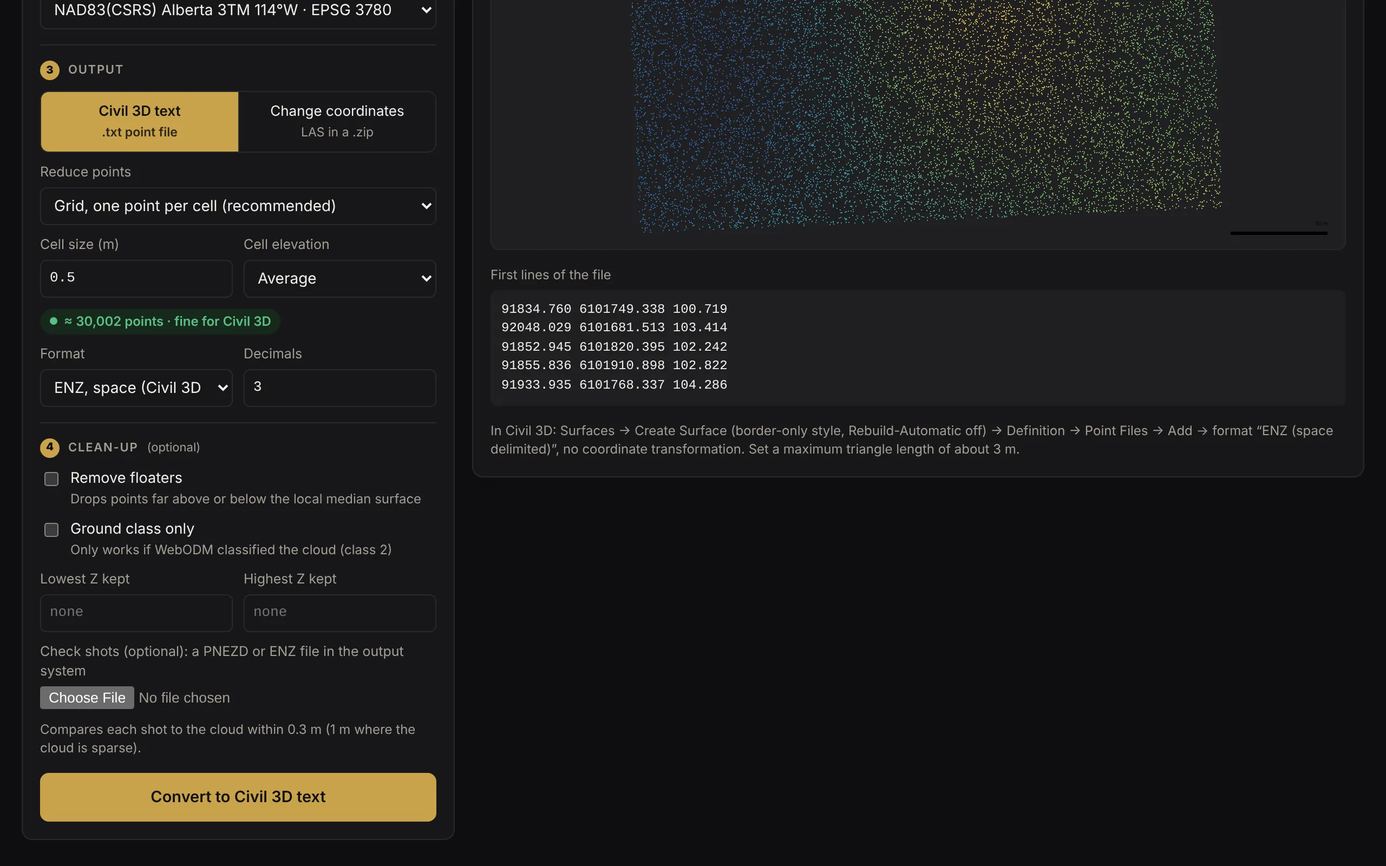
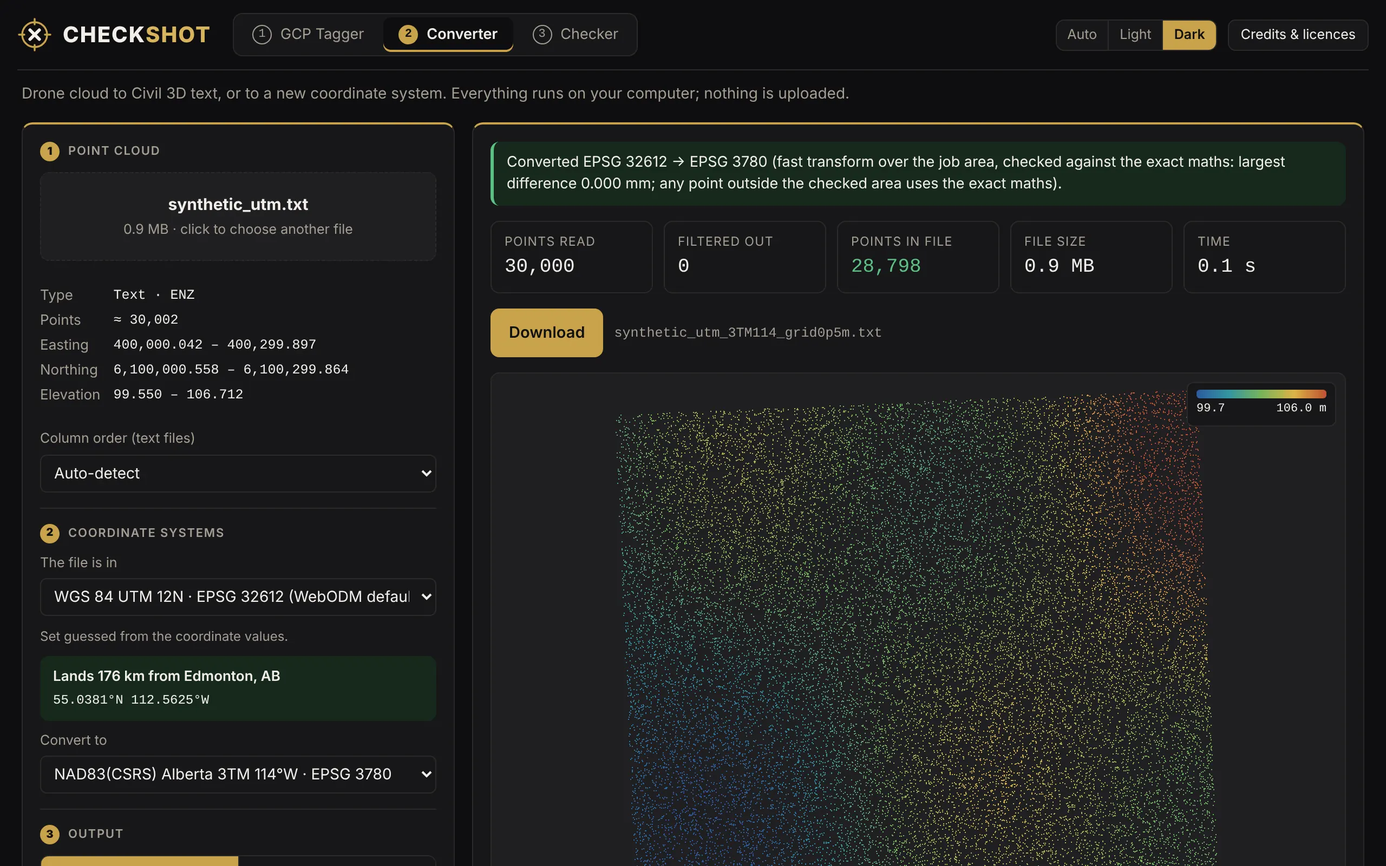
Legal pages from the final text, larger app screenshots, checks script, fixes from two review rounds
Claude-Session: https://claude.ai/code/session_0119f7EvM8GAWJpWpNf9qqMi

diff --git a/index.html b/index.html
@@ -4,12 +4,12 @@
 <meta charset="utf-8">
 <meta name="viewport" content="width=device-width, initial-scale=1">
 <title>Checkshot: check a drone survey against your stick shots</title>
-<meta name="description" content="Windows app for drone-survey checking in land development. Tag ground control, convert point clouds between 5,860 coordinate systems, and grade the cloud against stick shots. Runs offline. Free beta until March 31, 2027.">
+<meta name="description" content="Windows app for checking drone surveys. Tag ground control, convert point clouds between 5,860 coordinate systems, and grade the cloud against your stick shots. Runs offline. Free beta until March 31, 2027.">
 <link rel="canonical" href="https://checkshot.ca/">
 <meta property="og:type" content="website">
 <meta property="og:site_name" content="Checkshot">
 <meta property="og:title" content="Checkshot: check a drone survey against your stick shots">
-<meta property="og:description" content="Windows app for drone-survey checking in land development. Tag ground control, convert point clouds between 5,860 coordinate systems, and grade the cloud against stick shots. Runs offline. Free beta until March 31, 2027.">
+<meta property="og:description" content="Windows app for checking drone surveys. Tag ground control, convert point clouds between 5,860 coordinate systems, and grade the cloud against your stick shots. Runs offline. Free beta until March 31, 2027.">
 <meta property="og:url" content="https://checkshot.ca/">
 <meta property="og:image" content="https://checkshot.ca/assets/img/og.png">
 <meta property="og:image:width" content="1200">
@@ -105,16 +105,8 @@
     </div>
     <div>
       <article class="step">
-        <div>
           <h3><span class="n">1</span> Tag the control</h3>
           <p>Load the GCP shots from your data collector and the photos from the flight. Click the centre of a target in one photo. The Tagger looks for that target in the other photos and puts what it finds at the front of the list for you to accept or reject.</p>
-          <ul>
-            <li>Writes <code>gcp_list.txt</code> for OpenDroneMap and WebODM, or a survey XML for Autodesk ReCap.</li>
-            <li>Notices when your firm's grid is shifted from the true projection, tells you by how much, and remembers it.</li>
-            <li>A point with no elevation in the file is left out of the export and named. Nothing is written with Z = 0.</li>
-            <li>Tick any shot as a check point and it is kept out of the control.</li>
-          </ul>
-        </div>
         <figure class="shot">
   <a href="assets/shots/tagger-dark.webp" aria-label="Open the screenshot full size">
     <img class="dark" src="assets/shots/tagger-dark.webp" width="2560" height="1600" loading="lazy" decoding="async" alt="The GCP Tagger with seven made-up control points loaded: a site map on the left, the control list under it, and the three steps to tag a target on the right.">
@@ -122,19 +114,16 @@
   </a>
   <figcaption>GCP Tagger with made-up control loaded, before the photos are added.</figcaption>
 </figure>
+          <ul>
+            <li>Writes <code>gcp_list.txt</code> for OpenDroneMap and WebODM, or a survey XML for Autodesk ReCap.</li>
+            <li>Notices when your firm's grid is shifted from the true projection, tells you by how much, and remembers it.</li>
+            <li>A point with no elevation in the file is left out of the export and named. Nothing is written with Z = 0.</li>
+            <li>Tick any shot as a check point and it is kept out of the control.</li>
+          </ul>
       </article>
       <article class="step">
-        <div>
           <h3><span class="n">2</span> Convert the cloud</h3>
           <p>Take a LAS, LAZ or text point cloud from the system your processing software wrote it in to the one your drawings are in. The Converter guesses the source system from the numbers, says that it is a guess, and tells you in words where the cloud lands before anything runs.</p>
-          <ul>
-            <li>5,860 EPSG projected systems, including Alberta 3TM and UTM.</li>
-            <li>NAD27 through Natural Resources Canada's NTv2 grid, inside Canada. Outside the grid it stops with a message.</li>
-            <li>US survey feet and international feet. X, Y and Z all come out in feet.</li>
-            <li>Out: a point file thinned on a grid for Civil 3D, or a LAS with the new coordinates.</li>
-            <li>Says plainly when a step changes geometry, and by how much.</li>
-          </ul>
-        </div>
         <figure class="shot">
   <a href="assets/shots/converter-dark.webp" aria-label="Open the screenshot full size">
     <img class="dark" src="assets/shots/converter-dark.webp" width="2560" height="1600" loading="lazy" decoding="async" alt="The Converter after converting a made-up UTM point cloud to Alberta 3TM: a message stating the transform used and its largest difference from the exact maths, point counts, a download button and a plot of the cloud.">
@@ -142,11 +131,24 @@
   </a>
   <figcaption>Converter result on a made-up cloud. The green line says which transform was used and how far it is from the exact maths.</figcaption>
 </figure>
+          <ul>
+            <li>5,860 EPSG projected systems, including Alberta 3TM and UTM.</li>
+            <li>NAD27 through Natural Resources Canada's NTv2 grid, inside Canada. Outside the grid it stops with a message.</li>
+            <li>US survey feet and international feet. X, Y and Z all come out in feet.</li>
+            <li>Out: a point file thinned on a grid for Civil 3D, or a LAS with the new coordinates.</li>
+            <li>Says plainly when a step changes geometry, and by how much.</li>
+          </ul>
       </article>
       <article class="step">
-        <div>
           <h3><span class="n">3</span> Check it</h3>
           <p>Load the cloud and your stick shots and set a tolerance. The Checker fits a plane to the cloud points around each shot, so slopes do not bias the height, and gives you the difference at every one.</p>
+        <figure class="shot">
+  <a href="assets/shots/checker-dark.webp" aria-label="Open the screenshot full size">
+    <img class="dark" src="assets/shots/checker-dark.webp" width="2560" height="1600" loading="lazy" decoding="async" alt="The Checker after grading a made-up cloud against 24 made-up shots: a Pass line with the RMSE, tiles for mean, RMSE, standard deviation, 95 percent and worst shot, doming and tilt tests, and a map of the shots.">
+    <img class="light" src="assets/shots/checker-light.webp" width="2560" height="1600" loading="lazy" decoding="async" alt="The Checker after grading a made-up cloud against 24 made-up shots: a Pass line with the RMSE, tiles for mean, RMSE, standard deviation, 95 percent and worst shot, doming and tilt tests, and a map of the shots.">
+  </a>
+  <figcaption>Checker result on made-up data: verdict, statistics, bend tests and a map of the shots.</figcaption>
+</figure>
           <ul>
             <li>Mean, RMSE, standard deviation, the 95% figure (1.96 &times; RMSE), worst shot and share inside tolerance.</li>
             <li>Tests for doming and tilt. With enough shots on slopes, a horizontal shift too.</li>
@@ -157,20 +159,12 @@
             <p>Independent shots only. Never the shots you tagged as GCPs: the model was fitted to those, so they always look good and prove nothing.</p>
             <footer>From the Checker's own screen</footer>
           </blockquote>
-        </div>
-        <figure class="shot">
-  <a href="assets/shots/checker-dark.webp" aria-label="Open the screenshot full size">
-    <img class="dark" src="assets/shots/checker-dark.webp" width="2560" height="1600" loading="lazy" decoding="async" alt="The Checker after grading a made-up cloud against 24 made-up shots: a Pass line with the RMSE, tiles for mean, RMSE, standard deviation, 95 percent and worst shot, doming and tilt tests, and a map of the shots.">
-    <img class="light" src="assets/shots/checker-light.webp" width="2560" height="1600" loading="lazy" decoding="async" alt="The Checker after grading a made-up cloud against 24 made-up shots: a Pass line with the RMSE, tiles for mean, RMSE, standard deviation, 95 percent and worst shot, doming and tilt tests, and a map of the shots.">
-  </a>
-  <figcaption>Checker result on made-up data: verdict, statistics, bend tests and a map of the shots.</figcaption>
-</figure>
       </article>
     </div>
   </div>
 </section>
 
-<section class="band" id="rules" aria-labelledby="h-rules">
+<section class="band tinted" id="rules" aria-labelledby="h-rules">
   <div class="wrap">
     <div class="band-title">
       <h2 id="h-rules">Ground rules</h2>

diff --git a/assets/css/site.css b/assets/css/site.css
@@ -73,7 +73,7 @@ code { background: var(--panel); border: 1px solid var(--line); border-radius: 3
 
 /* survey illustration */
 .survey { margin-top: clamp(22px, 3.5vw, 40px); border-top: 1px solid var(--line); border-bottom: 1px solid var(--line); background: var(--sv-bg); position: relative; }
-.sv-stage { position: relative; height: clamp(400px, 66vh, 680px); overflow: hidden; }
+.sv-stage { position: relative; height: clamp(410px, calc(100vh - 440px), 680px); overflow: hidden; }
 .sv-stage canvas { position: absolute; inset: 0; width: 100%; height: 100%; display: block; opacity: 0; touch-action: pan-y; cursor: grab; }
 .survey.is-dragging canvas { cursor: grabbing; }
 .survey.is-live canvas { opacity: 1; }
@@ -85,6 +85,9 @@ code { background: var(--panel); border: 1px solid var(--line); border-radius: 3
 .survey:not(.is-live) .sv-labels { display: none; }
 .sv-label { position: absolute; left: 0; top: 0; pointer-events: auto; cursor: pointer; margin: -26px 0 0 4px; padding: 2px 7px; min-height: 24px;
   font: 400 0.8rem/1.4 var(--mono); font-variant-numeric: tabular-nums; white-space: nowrap; color: var(--ink); background: var(--bg); border: 1px solid currentColor; border-radius: 3px; }
+.sv-label { z-index: 2; }
+.sv-label.is-dot { z-index: 1; }
+.sv-label[aria-pressed="true"] { z-index: 3; }
 .sv-label i { display: none; }
 .sv-label.is-ok { color: var(--ok); } .sv-label.is-near { color: var(--near); } .sv-label.is-bad, .sv-label.is-out { color: var(--bad); }
 .sv-label.is-out span { text-decoration: line-through; }
@@ -125,6 +128,10 @@ details.sv-data table { margin-top: 8px; }
 .band:last-of-type { padding-bottom: clamp(56px, 8vw, 104px); }
 .band > .wrap { display: grid; grid-template-columns: minmax(0, 3fr) minmax(0, 9fr); gap: 20px clamp(24px, 4vw, 56px); border-top: 1px solid var(--line-strong); padding-top: 22px; }
 .band > .wrap > * { min-width: 0; }
+.band.tinted { background: var(--panel); margin-top: clamp(56px, 8vw, 104px); padding: 0 0 clamp(40px, 6vw, 64px); border-top: 1px solid var(--line-strong); border-bottom: 1px solid var(--line); }
+.band.tinted > .wrap { border-top: 0; padding-top: clamp(36px, 5vw, 56px); }
+.band.tinted + .band { padding-top: clamp(40px, 6vw, 64px); }
+.band.tinted + .band > .wrap { border-top: 0; }
 .band-title p { color: var(--muted); margin-top: 12px; font-size: 0.98rem; max-width: 22em; }
 .prose { max-width: 42em; }
 .prose h2 { margin: 1.6em 0 0.5em; font-size: clamp(1.7rem, 3vw, 2.2rem); }
@@ -134,14 +141,16 @@ details.sv-data table { margin-top: 8px; }
 .prose ol.alpha { list-style: none; padding-left: 1.2em; }
 
 /* workflow */
-.step { display: grid; grid-template-columns: minmax(0, 5fr) minmax(0, 7fr); gap: 20px clamp(20px, 3vw, 40px); padding: 0 0 clamp(40px, 6vw, 72px); align-items: start; }
+.step { padding: 0 0 clamp(40px, 6vw, 72px); }
 .step + .step { border-top: 1px solid var(--line); padding-top: clamp(28px, 4vw, 44px); }
 .step:last-child { padding-bottom: 0; }
-.step h3 { display: flex; gap: 0.45em; align-items: baseline; margin-bottom: 0.5em; }
+.step h3 { display: flex; gap: 0.45em; align-items: baseline; margin-bottom: 0.5em; font-size: clamp(1.9rem, 3.2vw, 2.6rem); }
 .step h3 .n { color: var(--gold-text); font-family: var(--display); }
-.step ul { list-style: none; margin: 0; padding: 0; font-size: 0.98rem; }
-.step li { padding: 9px 0; border-top: 1px solid var(--line); }
-.shot { margin: 0; }
+.step > p { max-width: 40em; }
+.step ul { list-style: none; margin: 18px 0 0; padding: 0; font-size: 0.98rem; columns: 2; column-gap: clamp(24px, 4vw, 48px); }
+.step li { padding: 9px 0; border-top: 1px solid var(--line); break-inside: avoid; }
+.step blockquote { max-width: 40em; }
+.shot { margin: 22px 0 0; }
 .shot a { display: block; border: 1px solid var(--line-strong); border-radius: 4px; overflow: hidden; background: var(--panel); }
 .shot img.light, :root[data-theme="light"] .shot img.dark { display: none; }
 :root[data-theme="light"] .shot img.light { display: block; }
@@ -184,6 +193,7 @@ td.num, table.nums td { font-family: var(--mono); font-variant-numeric: tabular-
 .page-body > .wrap { border-top: 1px solid var(--line-strong); padding-top: 26px; }
 .dl-grid { display: grid; grid-template-columns: minmax(0, 5fr) minmax(0, 7fr); gap: 28px clamp(24px, 5vw, 72px); }
 .dl-box { border: 1px solid var(--gold); border-radius: 4px; padding: clamp(18px, 3vw, 28px); align-self: start; }
+.dl-box h2 { font-size: 1.9rem; }
 .dl-box .btn { display: block; text-align: center; margin: 14px 0; }
 .dl-box p { font-size: 0.95rem; }
 .dl-box p:last-child { margin-bottom: 0; }
@@ -211,7 +221,7 @@ ol.steps li::marker { font-family: var(--display); font-weight: 700; color: var(
 .fine { color: var(--muted); font-size: 0.82rem; margin: 16px 0 0; max-width: 70em; }
 
 @media (max-width: 860px) {
-  .hero-side, .band > .wrap, .step, .dl-grid { grid-template-columns: minmax(0, 1fr); }
+  .hero-side, .band > .wrap, .dl-grid { grid-template-columns: minmax(0, 1fr); }
   .tblock { grid-template-columns: 1fr 1fr; }
   .tblock > div:nth-child(odd) { border-left: 0; }
   .tblock > div:nth-child(n+3) { border-top: 1px solid var(--line-strong); }
@@ -223,6 +233,7 @@ ol.steps li::marker { font-family: var(--display); font-weight: 700; color: var(
   .sv-status { grid-column: 1 / -1; }
 }
 @media (max-width: 560px) {
+  .step ul { columns: 1; }
   .top nav .opt { display: none; }
   .brand { font-size: 1.45rem; } .brand svg { width: 28px; height: 28px; }
   .tblock { grid-template-columns: 1fr; }

diff --git a/assets/js/hero.js b/assets/js/hero.js
@@ -168,7 +168,7 @@
     b.setAttribute('aria-pressed', 'false');
     b.setAttribute('aria-label', 'Check shot ' + s.id + ', ' + s.desc + ': cloud minus shot ' + sgn(s.dz).replace('−', 'minus ').replace('+', 'plus ') + ' metres' + (s.use ? '' : ', steep slope, left out'));
     b.innerHTML = '<i aria-hidden="true"></i><span>' + sgn(s.dz) + ' m</span>';
-    b.addEventListener('click', function () { select(selected === s ? null : s); });
+    b.addEventListener('click', function () { select(s); });
     b.addEventListener('pointerenter', function (e) { if (e.pointerType === 'mouse') select(s); });
     b.addEventListener('focus', function () { select(s); });
     labelsEl.appendChild(b);
@@ -200,7 +200,7 @@
   } catch (e) { root.classList.add('is-static'); return; }
 
   var small = Math.min(window.innerWidth, window.innerHeight) < 700 || (navigator.hardwareConcurrency || 8) <= 4;
-  var N = small ? 70000 : 150000, drawN = N, spacing = Math.sqrt(4 * HX * HY / N);
+  var N = small ? 70000 : 130000, drawN = N, spacing = Math.sqrt(4 * HX * HY / N);
   var rs = 20260115; function rnd() { rs = (rs * 16807) % 2147483647; return rs / 2147483647; }
   var ptBuf = gl.createBuffer(), STRIDE = 28;
   (function build() {
@@ -249,7 +249,7 @@
   }
   function camera() {
     var asp = W / H, f = 1 / Math.tan(FOV / 2), fx = f / asp, wide = W > 860;
-    var dist = Math.max(112 * f, (wide ? 238 : 142) * fx) * 1.06;
+    var dist = Math.max(112 * f, (wide ? 238 : 162) * fx) * 1.06;
     var ce = Math.cos(el), ex = Math.sin(az) * ce * dist, ey = -Math.cos(az) * ce * dist, ez = Math.sin(el) * dist;
     var tz = 100;
     // view basis: forward = target - eye, world up = +z
@@ -341,7 +341,7 @@
   }
 
   /* ---------- draw ---------- */
-  var T = 0, playing = false, dirty = true, visible = true, quality = 1, raf = 0, lastNow = 0;
+  var T = 0, started = false, playing = false, dirty = true, visible = true, quality = 1, raf = 0, lastNow = 0;
   var aP = { pos: gl.getAttribLocation(pPts, 'aPos'), start: gl.getAttribLocation(pPts, 'aStart'), col: gl.getAttribLocation(pPts, 'aCol'), rev: gl.getAttribLocation(pPts, 'aRev') };
   var uP = { mvp: gl.getUniformLocation(pPts, 'uMVP'), t: gl.getUniformLocation(pPts, 'uT'), px: gl.getUniformLocation(pPts, 'uPx'), noise: gl.getUniformLocation(pPts, 'uNoise'), gold: gl.getUniformLocation(pPts, 'uGold') };
   var aF = { pos: gl.getAttribLocation(pFlat, 'aPos'), col: gl.getAttribLocation(pFlat, 'aCol') }, uF = { mvp: gl.getUniformLocation(pFlat, 'uMVP') };
@@ -401,18 +401,18 @@
   var frames = 0, slow = 0, tuned = false;
   function frame(now) {
     raf = 0;
-    var dt = Math.min(0.05, (now - lastNow) / 1000 || 0.016); lastNow = now;
+    var dt = Math.min(0.1, (now - lastNow) / 1000 || 0.016); lastNow = now;
     if (playing) {
       T += dt; if (!userMoved) az += dt * 0.022;
       if (T >= TMAX) { T = TMAX; setPlaying(false); }
       scrub.value = String(T);
-      if (!tuned) { frames++; if (dt > 0.03) slow++; if (frames === 90) { tuned = true; if (slow > 40) { if (quality === 1 && (window.devicePixelRatio || 1) > 1) quality = 0.66; drawN = Math.round(N * 0.55); resize(); } } }
+      if (!tuned) { frames++; if (dt > 0.03) slow++; if (frames === 45) { tuned = true; if (slow > 20) { if (quality === 1 && (window.devicePixelRatio || 1) > 1) quality = 0.66; drawN = Math.round(N * 0.55); resize(); } } }
     }
     if (window.__svFrames != null) window.__svFrames++;
     draw(); status(); dirty = false;
     schedule();
   }
-  function schedule() { if (!raf && visible && !document.hidden && (playing || dirty || dragging)) raf = requestAnimationFrame(frame); }
+  function schedule() { if (started && !raf && visible && !document.hidden && (playing || dirty || dragging)) raf = requestAnimationFrame(frame); }
   function setPlaying(p) {
     playing = p; playBtn.setAttribute('aria-pressed', String(p));
     playBtn.querySelector('span').textContent = p ? 'Pause' : (T >= TMAX ? 'Replay' : 'Play');
@@ -446,7 +446,7 @@
   canvas.addEventListener('webglcontextlost', function (e) { e.preventDefault(); root.classList.remove('is-live'); root.classList.add('is-static'); playing = false; });
 
   function start(play) {
-    readTheme(); resize();
+    started = true; readTheme(); resize();
     root.classList.add('is-live'); root.classList.remove('is-waiting');
     if (play) { T = 0; setPlaying(true); } else { T = TMAX; scrub.value = String(T); setPlaying(false); dirty = true; schedule(); }
   }

diff --git a/404.html b/404.html
@@ -5,13 +5,13 @@
 <meta name="viewport" content="width=device-width, initial-scale=1">
 <script>document.write('<base href="'+(/github\.io$/.test(location.hostname)?'/'+location.pathname.split('/')[1]+'/':'/')+'">')</script>
 <title>Page not found | Checkshot</title>
-<meta name="description" content="There is no page at this address on checkshot.ca.">
+<meta name="description" content="There is no page at this address on checkshot.ca. Go to the home page or the download page instead.">
 <meta name="robots" content="noindex">
 <link rel="canonical" href="https://checkshot.ca/404.html">
 <meta property="og:type" content="website">
 <meta property="og:site_name" content="Checkshot">
 <meta property="og:title" content="Page not found | Checkshot">
-<meta property="og:description" content="There is no page at this address on checkshot.ca.">
+<meta property="og:description" content="There is no page at this address on checkshot.ca. Go to the home page or the download page instead.">
 <meta property="og:url" content="https://checkshot.ca/404.html">
 <meta property="og:image" content="https://checkshot.ca/assets/img/og.png">
 <meta property="og:image:width" content="1200">

diff --git a/tools/build.py b/tools/build.py
@@ -188,22 +188,20 @@ HOME = f'''<section class="hero" aria-labelledby="h-hero">
     </div>
     <div>
       <article class="step">
-        <div>
           <h3><span class="n">1</span> Tag the control</h3>
           <p>Load the GCP shots from your data collector and the photos from the flight. Click the centre of a target in one photo. The Tagger looks for that target in the other photos and puts what it finds at the front of the list for you to accept or reject.</p>
+        {shot('', 'tagger', 'The GCP Tagger with seven made-up control points loaded: a site map on the left, the control list under it, and the three steps to tag a target on the right.', 'GCP Tagger with made-up control loaded, before the photos are added.')}
           <ul>
             <li>Writes <code>gcp_list.txt</code> for OpenDroneMap and WebODM, or a survey XML for Autodesk ReCap.</li>
             <li>Notices when your firm's grid is shifted from the true projection, tells you by how much, and remembers it.</li>
             <li>A point with no elevation in the file is left out of the export and named. Nothing is written with Z = 0.</li>
             <li>Tick any shot as a check point and it is kept out of the control.</li>
           </ul>
-        </div>
-        {shot('', 'tagger', 'The GCP Tagger with seven made-up control points loaded: a site map on the left, the control list under it, and the three steps to tag a target on the right.', 'GCP Tagger with made-up control loaded, before the photos are added.')}
       </article>
       <article class="step">
-        <div>
           <h3><span class="n">2</span> Convert the cloud</h3>
           <p>Take a LAS, LAZ or text point cloud from the system your processing software wrote it in to the one your drawings are in. The Converter guesses the source system from the numbers, says that it is a guess, and tells you in words where the cloud lands before anything runs.</p>
+        {shot('', 'converter', 'The Converter after converting a made-up UTM point cloud to Alberta 3TM: a message stating the transform used and its largest difference from the exact maths, point counts, a download button and a plot of the cloud.', 'Converter result on a made-up cloud. The green line says which transform was used and how far it is from the exact maths.')}
           <ul>
             <li>5,860 EPSG projected systems, including Alberta 3TM and UTM.</li>
             <li>NAD27 through Natural Resources Canada's NTv2 grid, inside Canada. Outside the grid it stops with a message.</li>
@@ -211,13 +209,11 @@ HOME = f'''<section class="hero" aria-labelledby="h-hero">
             <li>Out: a point file thinned on a grid for Civil 3D, or a LAS with the new coordinates.</li>
             <li>Says plainly when a step changes geometry, and by how much.</li>
           </ul>
-        </div>
-        {shot('', 'converter', 'The Converter after converting a made-up UTM point cloud to Alberta 3TM: a message stating the transform used and its largest difference from the exact maths, point counts, a download button and a plot of the cloud.', 'Converter result on a made-up cloud. The green line says which transform was used and how far it is from the exact maths.')}
       </article>
       <article class="step">
-        <div>
           <h3><span class="n">3</span> Check it</h3>
           <p>Load the cloud and your stick shots and set a tolerance. The Checker fits a plane to the cloud points around each shot, so slopes do not bias the height, and gives you the difference at every one.</p>
+        {shot('', 'checker', 'The Checker after grading a made-up cloud against 24 made-up shots: a Pass line with the RMSE, tiles for mean, RMSE, standard deviation, 95 percent and worst shot, doming and tilt tests, and a map of the shots.', 'Checker result on made-up data: verdict, statistics, bend tests and a map of the shots.')}
           <ul>
             <li>Mean, RMSE, standard deviation, the 95% figure (1.96 &times; RMSE), worst shot and share inside tolerance.</li>
             <li>Tests for doming and tilt. With enough shots on slopes, a horizontal shift too.</li>
@@ -228,14 +224,12 @@ HOME = f'''<section class="hero" aria-labelledby="h-hero">
             <p>Independent shots only. Never the shots you tagged as GCPs: the model was fitted to those, so they always look good and prove nothing.</p>
             <footer>From the Checker's own screen</footer>
           </blockquote>
-        </div>
-        {shot('', 'checker', 'The Checker after grading a made-up cloud against 24 made-up shots: a Pass line with the RMSE, tiles for mean, RMSE, standard deviation, 95 percent and worst shot, doming and tilt tests, and a map of the shots.', 'Checker result on made-up data: verdict, statistics, bend tests and a map of the shots.')}
       </article>
     </div>
   </div>
 </section>
 
-<section class="band" id="rules" aria-labelledby="h-rules">
+<section class="band tinted" id="rules" aria-labelledby="h-rules">
   <div class="wrap">
     <div class="band-title">
       <h2 id="h-rules">Ground rules</h2>
@@ -438,7 +432,7 @@ def legal(name, desc):
 
 urls = [
     page('index.html', 'Checkshot: check a drone survey against your stick shots',
-         'Windows app for drone-survey checking in land development. Tag ground control, convert point clouds between 5,860 coordinate systems, and grade the cloud against stick shots. Runs offline. Free beta until March 31, 2027.',
+         'Windows app for checking drone surveys. Tag ground control, convert point clouds between 5,860 coordinate systems, and grade the cloud against your stick shots. Runs offline. Free beta until March 31, 2027.',
          HOME, extra_head=JSONLD, scripts='<script src="assets/js/hero.js"></script>\n'),
     page('download/index.html', 'Download the Checkshot beta for Windows',
          'Get the Checkshot beta installer for Windows 10 and 11. No admin rights needed. Free until March 31, 2027. Linux builds on the same release page.',
@@ -450,11 +444,11 @@ urls = [
     legal('privacy', 'What Checkshot collects: nothing from the app, no cookies or analytics on this site, and only what you send when you email or buy a licence.'),
     legal('terms', 'Terms of sale for Checkshot licences: prices and taxes, licence keys, refunds and delivery.'),
 ]
-page('404.html', 'Page not found | Checkshot', 'There is no page at this address on checkshot.ca.', NOTFOUND, robots='<meta name="robots" content="noindex">\n')
+page('404.html', 'Page not found | Checkshot', 'There is no page at this address on checkshot.ca. Go to the home page or the download page instead.', NOTFOUND, robots='<meta name="robots" content="noindex">\n')
 
 (ROOT / 'sitemap.xml').write_text('<?xml version="1.0" encoding="UTF-8"?>\n<urlset xmlns="http://www.sitemaps.org/schemas/sitemap/0.9">\n'
     + ''.join(f'  <url><loc>{u}</loc></url>\n' for u in urls) + '</urlset>\n')
-(ROOT / 'robots.txt').write_text(f'User-agent: *\nAllow: /\n\nSitemap: {SITE}/sitemap.xml\n')
+(ROOT / 'robots.txt').write_text(f'User-agent: *\nAllow: /\nDisallow: /notes/\nDisallow: /tools/\nDisallow: /legal/src/\n\nSitemap: {SITE}/sitemap.xml\n')
 (ROOT / 'CNAME').write_text('checkshot.ca\n')
 (ROOT / '.nojekyll').write_text('')
 (ROOT / 'site.webmanifest').write_text('{"name":"Checkshot","short_name":"Checkshot","start_url":"./","display":"browser","background_color":"#0E0E0F","theme_color":"#0E0E0F",'
